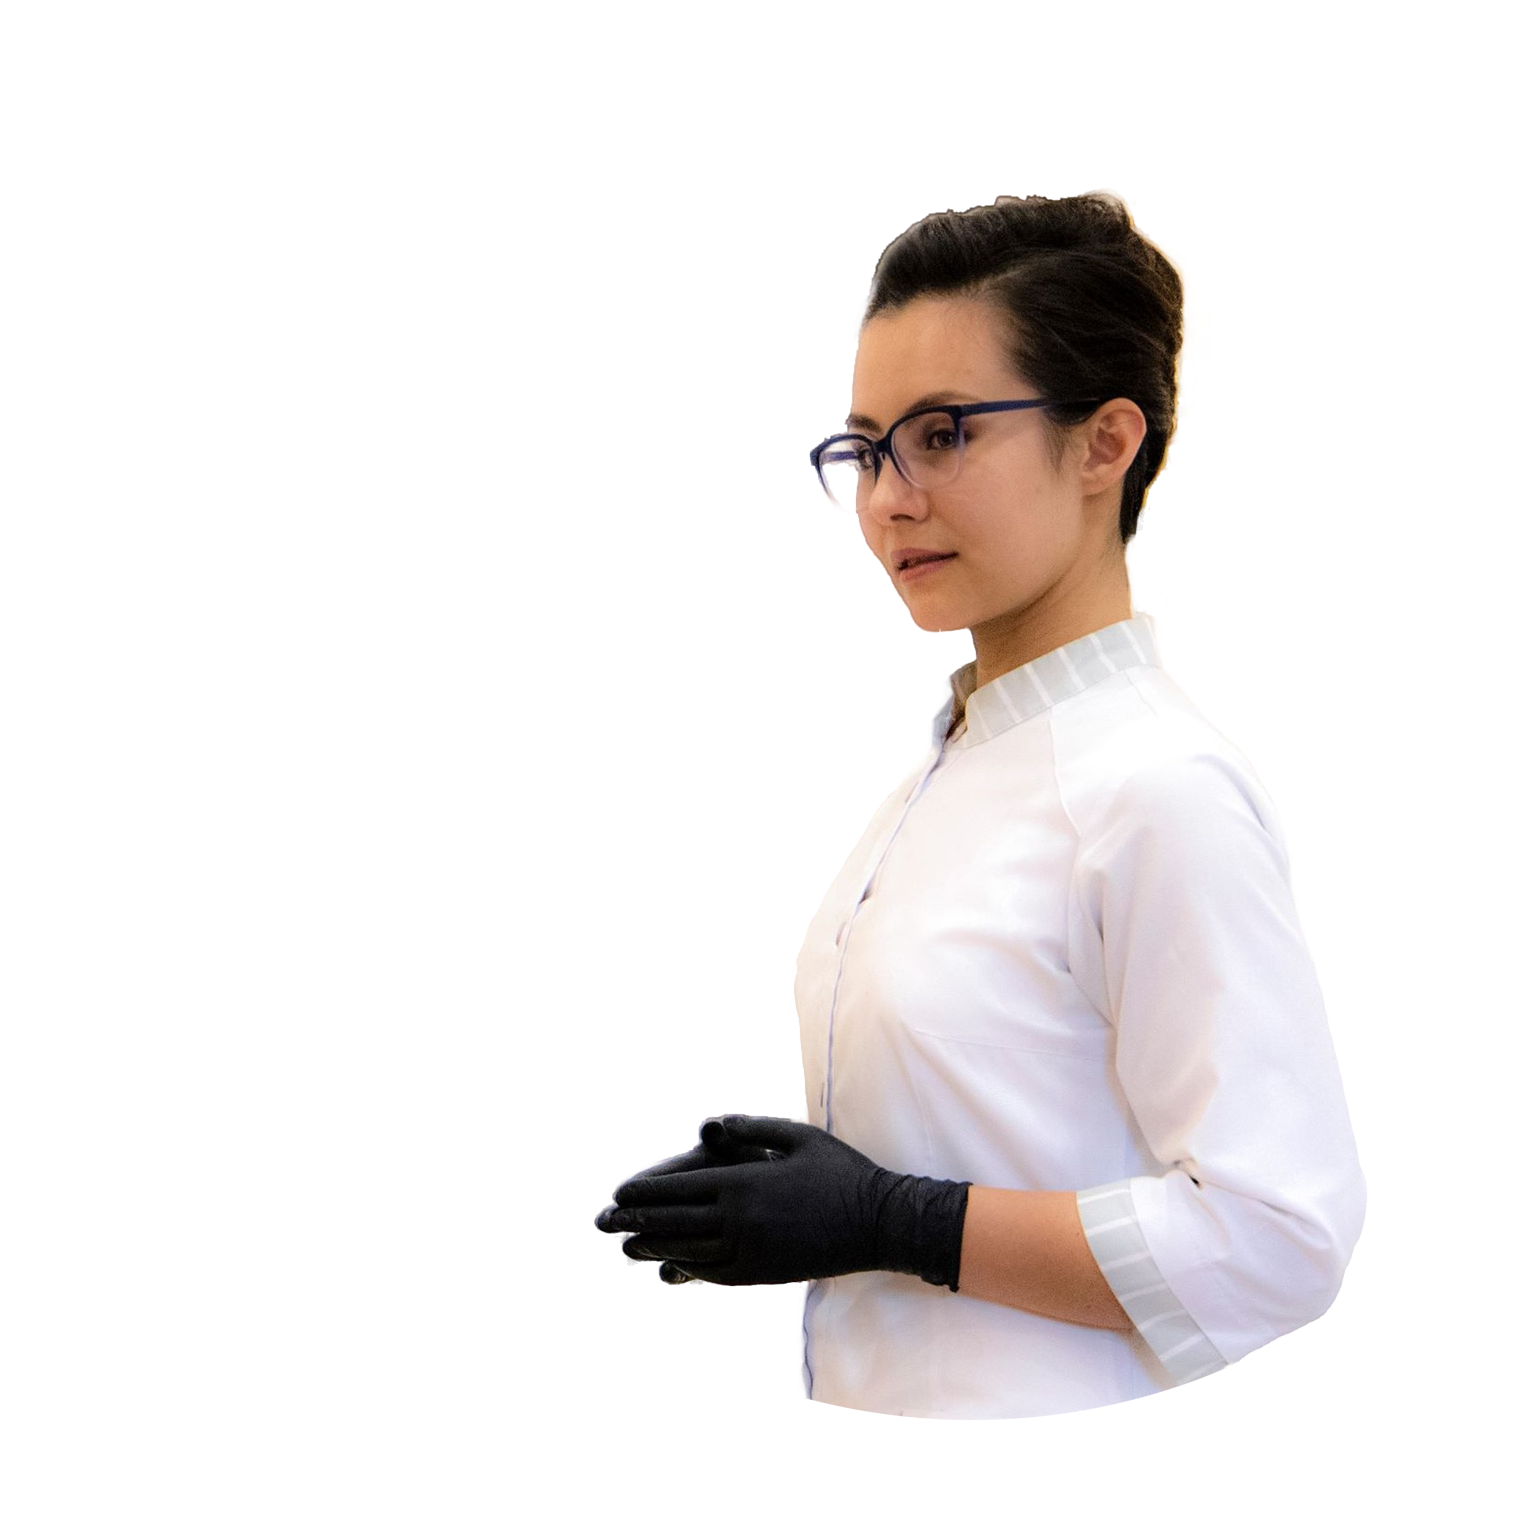
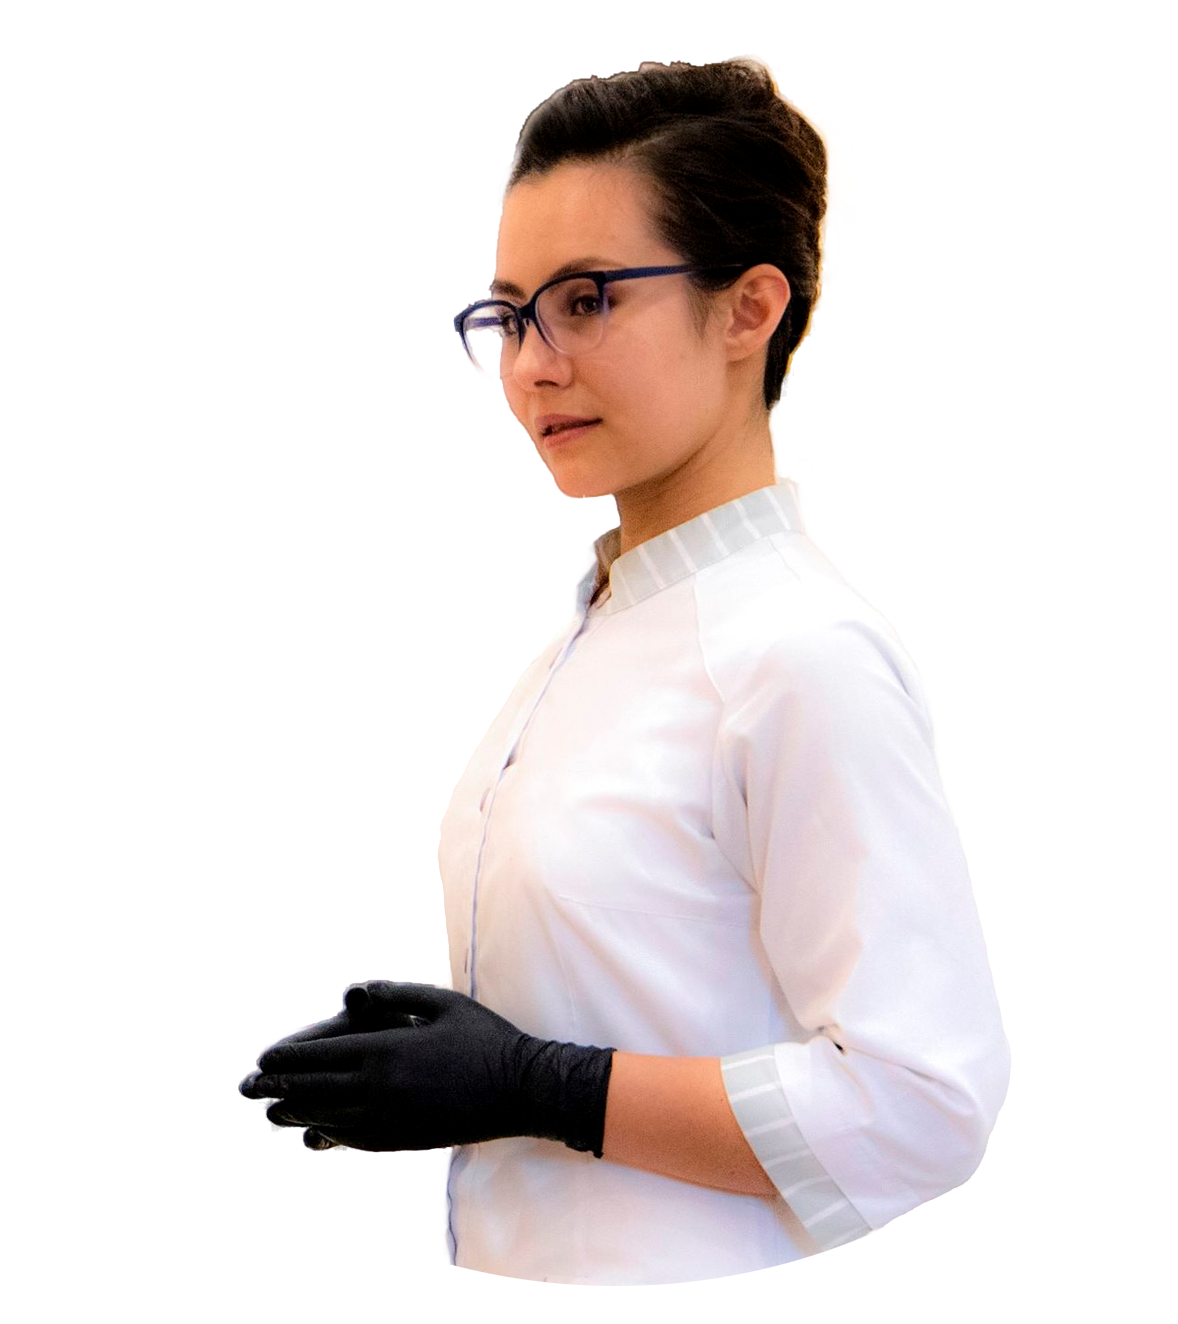
main

Changed region(s): [[0.1834, 0.031, 0.8862, 0.9909], [0.7946, 0.4955, 0.8251, 0.5264]]

diff --git a/index.css b/index.css
@@ -1,5 +1,5 @@
 body{
-    font-family: 'PT Sans', sans-serif;
+    font-family: 'Roboto', sans-serif, Arial, Helvetica, sans-serif;
     width: 1200px;
     margin: auto;
 }
@@ -16,7 +16,7 @@ body{
     display: flex;
     flex-direction: row;
     justify-content: space-between;
-    margin: 35px 0 0 90px; 
+    margin-top: 35px; 
 
 }
 
@@ -29,17 +29,17 @@ body{
     position: relative;
     display: block;
     color: #39364A; 
-    padding: 5px 0;
+    padding: 4px 5px;
 }
 
 
 .menu li a:hover{
-    border-bottom: 2px solid#39364A;
+    border-bottom: 1.5px solid#39364A;
     text-decoration: none;
 }
 
 .menu li a.active{
-    border-bottom: 2px solid#39364A;
+    border-bottom: 2.5px solid#39364A;
     font-weight: 800;
 } 
 
@@ -54,3 +54,100 @@ body{
     height: 35px;
     margin: 35px 10px 0 0; 
 }
+
+.main{
+    width: 1200px;
+    display: flex;
+    flex-direction: row;
+    margin-top: 130px; 
+    justify-content: space-around;
+}
+
+.main_photo{
+    position: relative;
+    width: 560px;
+    margin-top: -10px; 
+}
+
+.image_main{
+    position: absolute;
+    width: 450px;
+    left: 100px;
+    top: 15px;
+}
+
+.circle{
+    position: absolute;
+    width: 500px;
+    height: 500px;
+    background: linear-gradient(40deg, #E9917D 0%, rgba(243, 161, 114, 0.041) 90% ); 
+    border-radius: 300px;
+    left: 80px;
+    top: 5px;
+}
+
+.about{
+    width: 490px;
+    color: #39364A;
+    margin-left: 50px;
+}
+
+.about h1{
+    font-size: 55px;
+    font-weight: 800;
+}
+
+.about h3{
+    font-size: 30px;
+    font-weight: 800;
+    color: #F3A272;
+}
+
+.about p{
+    font-size: 17px;
+    margin-top: 35px;
+}
+
+.about p span{
+    font-weight: 700;
+}
+
+.academy{
+    position: relative;
+    width: 400px;
+    padding-left: 30px;
+    margin: 30px 0;
+    font-size: 17px;
+}
+
+.academy li{
+    list-style-type: none;
+    margin: 20px 0;
+}
+
+.point{
+    position: absolute;
+    width: 15px;
+    height: 15px;
+    background: linear-gradient(90deg, #E9917D 0%, #F3A272 100%);
+    border-radius: 10px;
+    left: 5px;
+}
+
+.button{
+    width: 250px;
+    height: 50px;
+    background: linear-gradient(90deg, #F18B74 0%, #F7AE83 100%);
+    box-shadow: 0px 0px 20px rgba(98, 56, 41, 0.2);
+    border-radius: 30px;
+    border: 0;
+    margin-top: 20px;
+    font-size: 22px;
+    font-weight: 800;
+    color: white;
+}
+
+.button:hover{
+    background: linear-gradient(90deg, rgb(235, 114, 87) 0%, rgb(238, 142, 87) 100%);
+}
+

diff --git a/index.html b/index.html
@@ -7,7 +7,7 @@
 	<title>Dr Keliamova Revide</title>
 	<link rel="stylesheet" href="https://stackpath.bootstrapcdn.com/bootstrap/4.5.0/css/bootstrap.min.css"
 		integrity="sha384-9aIt2nRpC12Uk9gS9baDl411NQApFmC26EwAOH8WgZl5MYYxFfc+NcPb1dKGj7Sk" crossorigin="anonymous">
-	<link href="https://fonts.googleapis.com/css2?family=PT+Sans:wght@400;700&display=swap" rel="stylesheet">
+	<link href="https://fonts.googleapis.com/css2?family=Roboto:wght@300;400;500;700&display=swap" rel="stylesheet">
 	<link rel="stylesheet" type="text/css" href="index.css">
 </head>
 
@@ -29,6 +29,23 @@
 		</div>
 	</div>
 	<div class="main">
+		<div class="about">
+			<h1>Ревіде Келямова</h1>
+			<h3>Лікар дерматолог, косметолог</h3>
+			<p>Сертифікований спеціаліст. Досвід роботи більше 5 років.
+				<span>Входить до:</span></p>
+			<ul class="academy">
+				<li><span class="point"></span>Європейської асоціації академії дерматовенерології;</li>
+				<li><span class="point"></span>Української асоціації лікарей дермато-
+					венерологів та косметологіі;</li>
+				<li><span class="point"></span>Української академії дерматовенерології.</li>
+			</ul>
+			<button type="button" class="button">Онлайн запис</button>
+		</div>
+		<div class="main_photo">
+			<span class="circle"></span>
+            <img class="image_main" src="img/main_image.png">
+		</div>
 	</div>
 </body>
 
